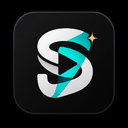
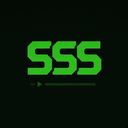
SSSPlayer 1.1.0: video mounts, original LiveArea, versioned VPK.
Show ux0/uma0 video and movies alongside music in the browser root,
replace inherited branding with SSSPlayer assets by SergioSSantiago,
and ship SSSPlayer-1.1.0.vpk with clearer install docs.

diff --git a/src/file_browser.c b/src/file_browser.c
@@ -77,8 +77,8 @@ static bool is_virtual_root(const char *path)
     return !path || path[0] == '\0';
 }
 
-/* True if path is ux0:/music or uma0:/music (optional trailing slash) */
-static bool is_music_mount_root(const char *path)
+/* True if path is a top-level media mount (music/video/movies on ux0/uma0) */
+static bool is_media_mount_root(const char *path)
 {
     if (!path || !path[0]) return false;
 
@@ -91,7 +91,17 @@ static bool is_music_mount_root(const char *path)
         buf[len - 1] = '\0';
 
     return strcmp(buf, "ux0:/music")  == 0 ||
-           strcmp(buf, "uma0:/music") == 0;
+           strcmp(buf, "uma0:/music") == 0 ||
+           strcmp(buf, "ux0:/video")  == 0 ||
+           strcmp(buf, "uma0:/video") == 0 ||
+           strcmp(buf, "ux0:/movies") == 0 ||
+           strcmp(buf, "uma0:/movies") == 0 ||
+           strcmp(buf, "ux0:music")   == 0 ||
+           strcmp(buf, "uma0:music")  == 0 ||
+           strcmp(buf, "ux0:video")   == 0 ||
+           strcmp(buf, "uma0:video")  == 0 ||
+           strcmp(buf, "ux0:movies")  == 0 ||
+           strcmp(buf, "uma0:movies") == 0;
 }
 
 /* Ensure entries buffer is ready for a fresh listing */
@@ -128,7 +138,7 @@ static void try_add_mount(FileList *list, const char *path, const char *label)
     list->count++;
 }
 
-/* Virtual root: list ux0:/music/ and uma0:/music/ when present */
+/* Virtual root: list music + video mounts on ux0/uma0 when present */
 static int scan_virtual_root(FileList *list)
 {
     int prep = prepare_entries(list);
@@ -136,6 +146,10 @@ static int scan_virtual_root(FileList *list)
 
     try_add_mount(list, MUSIC_ROOT_UX0,  "ux0:/music");
     try_add_mount(list, MUSIC_ROOT_UMA0, "uma0:/music");
+    try_add_mount(list, VIDEO_ROOT_UX0,  "ux0:/video");
+    try_add_mount(list, VIDEO_ROOT_UMA0, "uma0:/video");
+    try_add_mount(list, MOVIES_ROOT_UX0, "ux0:/movies");
+    try_add_mount(list, MOVIES_ROOT_UMA0, "uma0:/movies");
 
     list->current_dir[0] = '\0';
     list->parent_dir[0]  = '\0';
@@ -385,7 +399,7 @@ int file_browser_navigate_up(FileList *list)
     if (is_virtual_root(list->current_dir)) return -1;
 
     /* At a mount root (ux0 or uma0) — return to virtual root */
-    if (is_music_mount_root(list->current_dir))
+    if (is_media_mount_root(list->current_dir))
         return scan_virtual_root(list);
 
     if (list->parent_dir[0] == '\0') return -1;

diff --git a/src/ui/local_media_screen.c b/src/ui/local_media_screen.c
@@ -34,14 +34,14 @@
 #define LOCAL_MAX_ITEMS 65536
 #define LOCAL_PAGE_ITEMS 24
 #define LOCAL_SCAN_THREAD_STACK 0x40000
-#define LOCAL_INDEX_PATH "ux0:data/VitaMediaDeck/local_media.idx"
-#define LOCAL_INDEX_TEMP "ux0:data/VitaMediaDeck/local_media.tmp"
-#define LOCAL_INDEX_BACKUP "ux0:data/VitaMediaDeck/local_media.bak"
-#define LOCAL_ROOT_CACHE_PATH "ux0:data/VitaMediaDeck/local_roots.cache"
-#define LOCAL_ROOT_CACHE_TEMP "ux0:data/VitaMediaDeck/local_roots.tmp"
-#define LOCAL_GROUP_VIDEO_TEMP "ux0:data/VitaMediaDeck/local_video.tmp"
-#define LOCAL_GROUP_AUDIO_TEMP "ux0:data/VitaMediaDeck/local_audio.tmp"
-#define LOCAL_GROUP_IMAGE_TEMP "ux0:data/VitaMediaDeck/local_image.tmp"
+#define LOCAL_INDEX_PATH "ux0:data/SSSPlayer/local_media.idx"
+#define LOCAL_INDEX_TEMP "ux0:data/SSSPlayer/local_media.tmp"
+#define LOCAL_INDEX_BACKUP "ux0:data/SSSPlayer/local_media.bak"
+#define LOCAL_ROOT_CACHE_PATH "ux0:data/SSSPlayer/local_roots.cache"
+#define LOCAL_ROOT_CACHE_TEMP "ux0:data/SSSPlayer/local_roots.tmp"
+#define LOCAL_GROUP_VIDEO_TEMP "ux0:data/SSSPlayer/local_video.tmp"
+#define LOCAL_GROUP_AUDIO_TEMP "ux0:data/SSSPlayer/local_audio.tmp"
+#define LOCAL_GROUP_IMAGE_TEMP "ux0:data/SSSPlayer/local_image.tmp"
 #define LOCAL_SCAN_VIDEO_AUDIO 3U
 #define LOCAL_SCAN_IMAGE 4U
 #define LIST_X 52
@@ -631,7 +631,7 @@ static int scan_media(LocalMediaIndexHeader *result_index) {
 	if (!result_index) return -1;
 	LocalMediaIndexHeader index;
 	memset(&index, 0, sizeof(index));
-	sceIoMkdir("ux0:data/VitaMediaDeck", 0777);
+	sceIoMkdir("ux0:data/SSSPlayer", 0777);
 	sceIoRemove(LOCAL_INDEX_TEMP);
 	sceIoRemove(LOCAL_GROUP_VIDEO_TEMP);
 	sceIoRemove(LOCAL_GROUP_AUDIO_TEMP);
@@ -781,7 +781,7 @@ static int local_scan_start(void) {
 	memset(&g_scan_job, 0, sizeof(g_scan_job));
 	g_scan_job.self = &g_scan_job;
 	g_scan_job.thid = sceKernelCreateThread(
-	    "VitaMediaDeckMediaScan", local_scan_thread, 0x10000100,
+	    "SSSPlayerMediaScan", local_scan_thread, 0x10000100,
 	    LOCAL_SCAN_THREAD_STACK, 0, 0, NULL);
 	if (g_scan_job.thid < 0) return g_scan_job.thid;
 	int ret = sceKernelStartThread(g_scan_job.thid, sizeof(g_scan_job.self),

diff --git a/src/network/jellyfin_source.c b/src/network/jellyfin_source.c
@@ -226,7 +226,7 @@ static int authorization_header(const char *token, char *out, size_t out_size) {
 	if (token && token[0] && !safe_header_value(token)) return -1;
 	int written = snprintf(
 	    out, out_size,
-	    "Authorization: MediaBrowser Client=\"VitaMediaDeck\", "
+	    "Authorization: MediaBrowser Client=\"SSSPlayer\", "
 	    "Device=\"PlayStation Vita\", DeviceId=\"%s\", Version=\"%s\"%s%s%s",
 	    JELLYFIN_DEVICE_ID, JELLYFIN_CLIENT_VERSION,
 	    token && token[0] ? ", Token=\"" : "",
@@ -238,7 +238,7 @@ static int authorization_header(const char *token, char *out, size_t out_size) {
 static void jellyfin_client_config(const VtNetworkSource *source,
 	                               VitaHttpsClientConfig *config) {
 	memset(config, 0, sizeof(*config));
-	config->user_agent = "VitaMediaDeck/1.1";
+	config->user_agent = "SSSPlayer/1.1";
 	config->connect_timeout_ms = 5000;
 	config->request_timeout_ms = 12000;
 	config->low_speed_bytes_per_second = 1024;
@@ -1185,7 +1185,7 @@ int vt_jellyfin_open_stream(const VtNetworkSource *source,
 	stream->reset_pending = 1;
 	jellyfin_publish_cache(stream, 0, 0, 0);
 	stream->worker_thid = sceKernelCreateThread(
-	    "VitaMediaDeckJellyfinPrefetch", jellyfin_prefetch_worker,
+	    "SSSPlayerJellyfinPrefetch", jellyfin_prefetch_worker,
 	    JELLYFIN_PREFETCH_THREAD_CREATE_PRIORITY,
 	    JELLYFIN_PREFETCH_THREAD_STACK, 0, 0, NULL);
 	if (stream->worker_thid < 0) {

diff --git a/src/media/video_thumbnail.c b/src/media/video_thumbnail.c
@@ -50,7 +50,7 @@
 #define THUMB_THREAD_CREATE_PRIORITY  0x10000100
 #define THUMB_THREAD_RUNTIME_PRIORITY 0xB0
 #define THUMB_THREAD_STACK          0x100000
-#define THUMB_CACHE_DIR             "ux0:data/VitaMediaDeck/thumbs"
+#define THUMB_CACHE_DIR             "ux0:data/SSSPlayer/thumbs"
 
 typedef struct ThumbnailRequest {
 	uint64_t key;
@@ -262,7 +262,7 @@ static void cache_store(const ThumbnailRequest *request,
 	                    const uint16_t *pixels) {
 	if (g_thumbnail.stop || !g_thumbnail.enabled || g_thumbnail.active_cancel ||
 	    request->generation != g_thumbnail.generation) return;
-	sceIoMkdir("ux0:data/VitaMediaDeck", 0777);
+	sceIoMkdir("ux0:data/SSSPlayer", 0777);
 	sceIoMkdir(THUMB_CACHE_DIR, 0777);
 	char path[96], temporary[96];
 	cache_paths(request->key, path, temporary);
@@ -1268,7 +1268,7 @@ int vt_video_thumbnail_init(void) {
 	g_thumbnail.thid = -1;
 	g_thumbnail.self = &g_thumbnail;
 	g_thumbnail.thid = sceKernelCreateThread(
-		"VitaMediaDeckThumbnail", thumbnail_worker,
+		"SSSPlayerThumbnail", thumbnail_worker,
 		THUMB_THREAD_CREATE_PRIORITY,
 		THUMB_THREAD_STACK, 0, 0, NULL);
 	if (g_thumbnail.thid < 0) return g_thumbnail.thid;

diff --git a/src/media/background_playback.c b/src/media/background_playback.c
@@ -1040,7 +1040,7 @@ static int prepare_local(const char *media_path, const char *media_id,
 		          sizeof(job->snapshot.audio_codec), "PCM");
 	job->snapshot.is_video = decoder_source != 0;
 	job->snapshot.state = VT_BACKGROUND_PREPARING;
-	job->thid = sceKernelCreateThread("VitaMediaDeckLocalAudio", background_thread,
+	job->thid = sceKernelCreateThread("SSSPlayerLocalAudio", background_thread,
 	                                  BACKGROUND_THREAD_PRIORITY,
 	                                  BACKGROUND_THREAD_STACK, 0, 0, NULL);
 	if (job->thid < 0) return job->thid;
@@ -1103,7 +1103,7 @@ int vt_background_playback_prepare_remote_video(
 	job->snapshot.duration_ms = duration_ms;
 	job->snapshot.is_video = 1;
 	job->snapshot.state = VT_BACKGROUND_PREPARING;
-	job->thid = sceKernelCreateThread("VitaMediaDeckRemoteVideo",
+	job->thid = sceKernelCreateThread("SSSPlayerRemoteVideo",
 	                                  background_thread,
 	                                  BACKGROUND_THREAD_PRIORITY,
 	                                  BACKGROUND_THREAD_STACK, 0, 0, NULL);

diff --git a/src/ui/qr_scanner.c b/src/ui/qr_scanner.c
@@ -308,7 +308,7 @@ static int qr_decode_thread(SceSize args, void *argp) {
 #if QR_DEBUG_DIAGNOSTICS
 static void save_debug_frame(QrDecodeWorker *worker) {
 	if (!worker || worker->debug_frame_saved) return;
-	const char *path = "ux0:data/VitaMediaDeck/qr-debug-frame.pgm";
+	const char *path = "ux0:data/SSSPlayer/qr-debug-frame.pgm";
 	SceUID fd = sceIoOpen(path, SCE_O_WRONLY | SCE_O_CREAT | SCE_O_TRUNC, 0666);
 	if (fd < 0) {
 		log_printf("qr debug: frame dump open -> 0x%08X\n", (unsigned int)fd);
@@ -535,7 +535,7 @@ int ui_qr_scan_https_url(char *out, size_t out_size) {
 	           quirc_version(), QR_DECODE_WIDTH, QR_DECODE_HEIGHT,
 	           QR_DECODE_SMALL_WIDTH, QR_DECODE_SMALL_HEIGHT);
 	#endif
-	worker->thid = sceKernelCreateThread("VitaMediaDeckQrDecode", qr_decode_thread,
+	worker->thid = sceKernelCreateThread("SSSPlayerQrDecode", qr_decode_thread,
 	                                     QR_WORKER_PRIORITY, QR_WORKER_STACK, 0, 0, NULL);
 	if (worker->thid < 0 ||
 	    sceKernelStartThread(worker->thid, sizeof(worker), &worker) < 0) {

diff --git a/include/file_browser.h b/include/file_browser.h
@@ -11,7 +11,11 @@
 #define MAX_DIRS_DEEP       16
 #define MUSIC_ROOT_UX0      "ux0:/music/"
 #define MUSIC_ROOT_UMA0     "uma0:/music/"
-#define MUSIC_ROOT          ""   /* virtual root: lists both mounts */
+#define VIDEO_ROOT_UX0      "ux0:/video/"
+#define VIDEO_ROOT_UMA0     "uma0:/video/"
+#define MOVIES_ROOT_UX0     "ux0:/movies/"
+#define MOVIES_ROOT_UMA0    "uma0:/movies/"
+#define MUSIC_ROOT          ""   /* virtual root: lists music + video mounts */
 
 /* ── File types ───────────────────────────────────────────────────────────── */
 typedef enum {
@@ -54,7 +58,7 @@ typedef struct {
 
 /**
  * Allocate and initialise a FileList, set current_dir to the virtual root
- * (lists ux0:/music/ and uma0:/music/ when present).
+ * (lists ux0/uma0 music and video folders when present).
  * Returns a valid FileList* on success, NULL on allocation failure.
  */
 FileList *file_browser_init(void);

diff --git a/include/video_bridge.h b/include/video_bridge.h
@@ -8,15 +8,15 @@ extern "C" {
 /* Returns 1 if the path looks like a playable video container. */
 int sss_video_is_path(const char *path);
 
-/* Play a local video file with the VideoSSS decoder stack.
+/* Play a local video file with the SSSPlayer decoder stack.
  * Returns 0 on clean exit, <0 on failure. Music audio should be stopped
  * by the caller before invoking this. */
 int sss_video_play_local(const char *path, const char *title);
 
-/* Open the VideoSSS local media browser (videos/images). */
+/* Open the local media browser (videos/images). */
 int sss_video_browse_library(void);
 
-/* Open the VideoSSS network sources browser (SMB/SFTP/WebDAV/Jellyfin). */
+/* Open the network sources browser (SMB/SFTP/WebDAV/Jellyfin). */
 int sss_video_browse_network(void);
 
 #ifdef __cplusplus

diff --git a/src/media/avplayer_init.c b/src/media/avplayer_init.c
@@ -1,5 +1,5 @@
 /*
- * VitaMediaDeck - hardware decoder initialization (sceAvPlayer) + vita2d.
+ * SSSPlayer - hardware decoder initialization (sceAvPlayer) + vita2d.
  *
  * See avplayer_init.h for the list of verified sources. In summary, the
  * four "tricky" points of this module and their confirmation:
@@ -143,7 +143,7 @@ static void *av_allocate_texture(void *arg, uint32_t alignment, uint32_t size) {
 	opt.attr = SCE_KERNEL_ALLOC_MEMBLOCK_ATTR_HAS_ALIGNMENT;
 	opt.alignment = alignment;
 
-	memblock = sceKernelAllocMemBlock("VitaMediaDeckAvFrame",
+	memblock = sceKernelAllocMemBlock("SSSPlayerAvFrame",
 	                                   SCE_KERNEL_MEMBLOCK_TYPE_USER_CDRAM_RW,
 	                                   size, &opt);
 	if (memblock < 0) {

diff --git a/src/main.c b/src/main.c
@@ -127,7 +127,15 @@ int main(void)
         if (db_tid >= 0) sceKernelStartThread(db_tid, 0, NULL);
     }
 
-    /* Scan music directory */
+    /* Ensure media folders exist so they appear in the browser root list */
+    sceIoMkdir("ux0:/music", 0777);
+    sceIoMkdir("ux0:/video", 0777);
+    sceIoMkdir("ux0:/movies", 0777);
+    sceIoMkdir("uma0:/music", 0777);
+    sceIoMkdir("uma0:/video", 0777);
+    sceIoMkdir("uma0:/movies", 0777);
+
+    /* Scan virtual media root (music + video mounts) */
     file_browser_scan_dir(g_browser, MUSIC_ROOT);
 
     /* ── Playlist ── */

diff --git a/src/ui/settings_screen.c b/src/ui/settings_screen.c
@@ -637,7 +637,7 @@ static void draw_screen(int tab, int cursor, float focus,
 			draw_value(small, y, row_width, language_label(rows[i].value));
 		else if (rows[i].kind == ROW_CLOCK)
 			draw_value(small, y, row_width, rows[i].value == VT_CLOCK_SOURCE_APP
-			                       ? "VideoSSS 444/222/222/111"
+			                       ? "SSSPlayer 444/222/222/111"
 			                       : vt_i18n_str(VT_STR_SETTINGS_CLOCK_SOURCE_PSVSHELL));
 		else if (rows[i].kind == ROW_MAPPING)
 			draw_value(small, y, row_width, vt_i18n_str(rows[i].value

diff --git a/src/ui/text_reader.c b/src/ui/text_reader.c
@@ -125,7 +125,7 @@ static void draw_reader(const char *parent_title, const char *title,
 		draw_reader_tabs(body, parent_title, title);
 	else if (body)
 		ui_font_draw_text(body, 44, 91, VT_THEME_TEXT, UI_FONT_BODY,
-		                       title && title[0] ? title : "VideoSSS");
+		                       title && title[0] ? title : "SSSPlayer");
 	ui_panel(32, tabbed ? 124 : 98, 896, tabbed ? 394 : 420,
 	         VT_THEME_SURFACE, VT_THEME_BLUE_BRIGHT, 0);
 	vita2d_set_clip_rectangle(40, tabbed ? 122 : 96, 920, 522);
